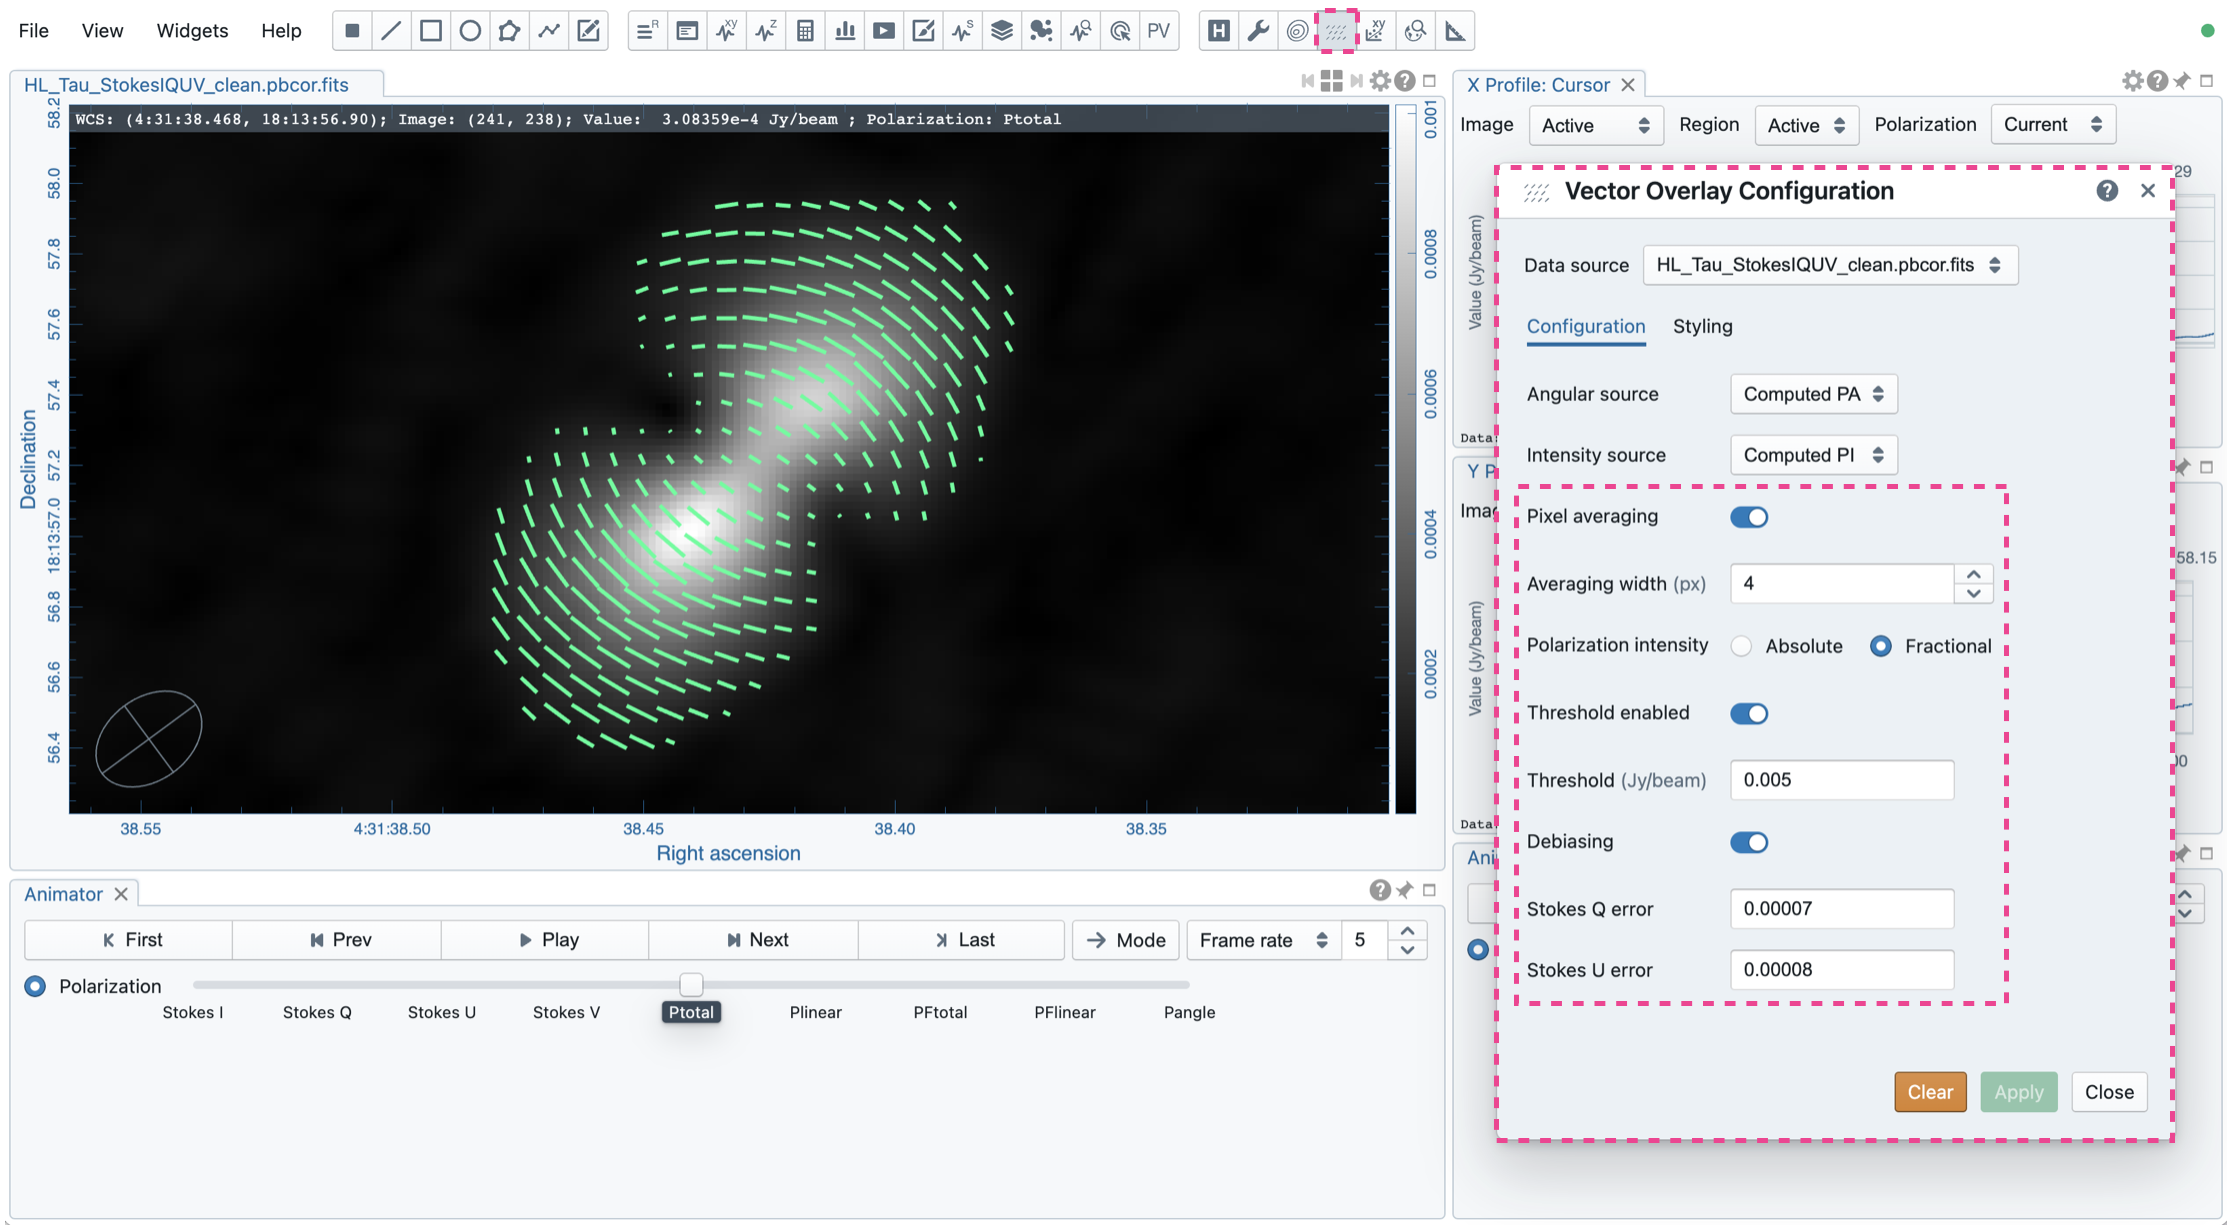
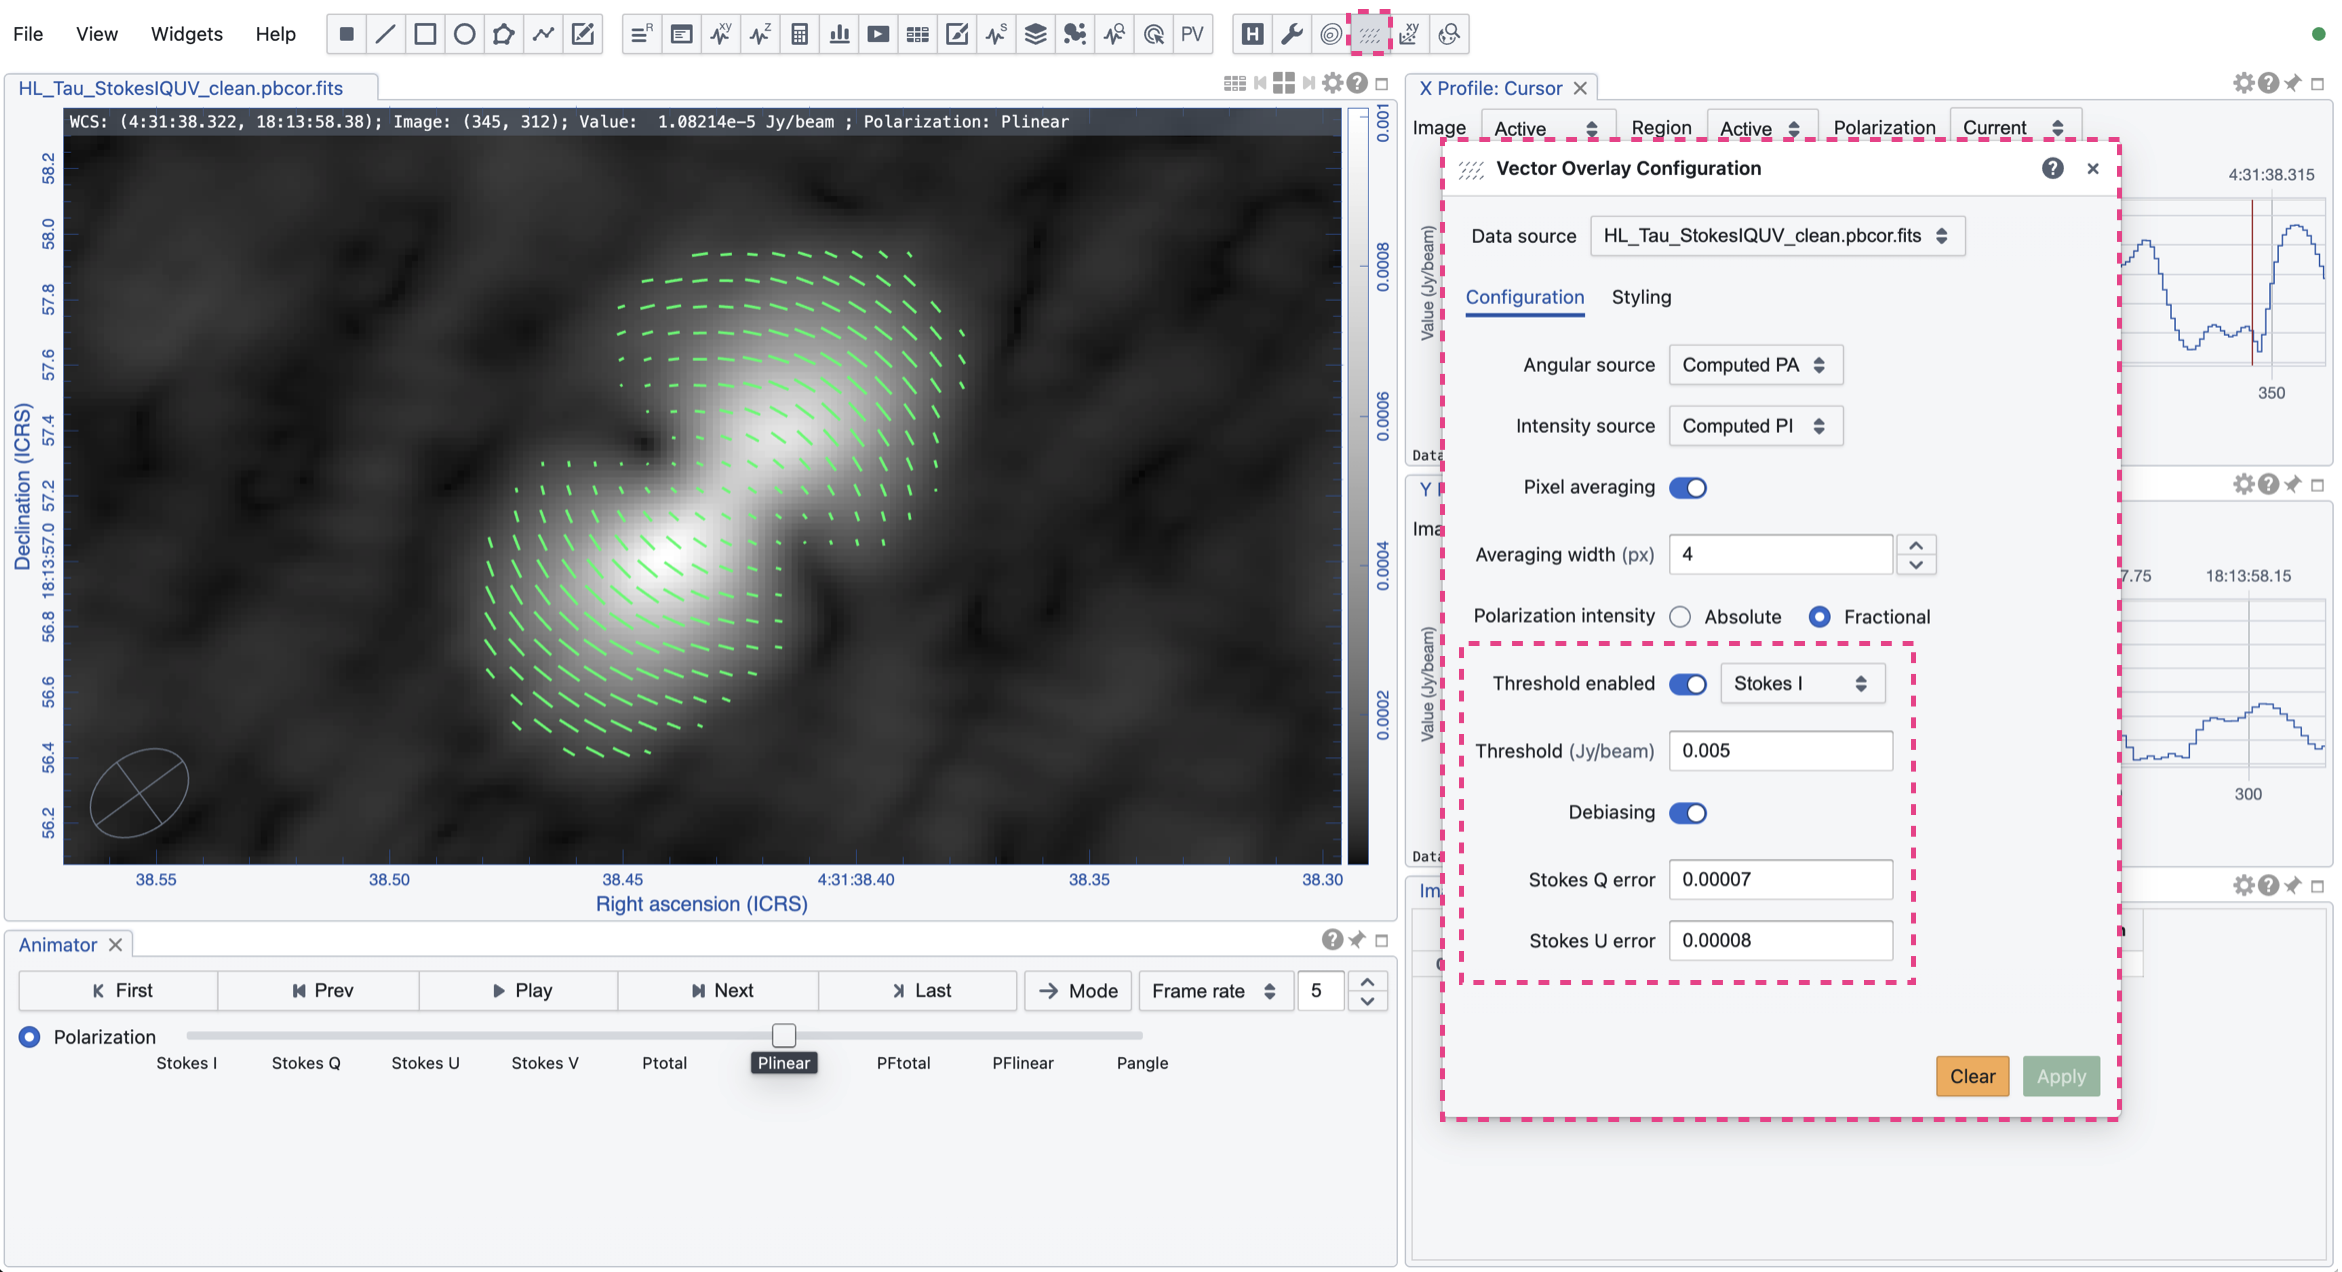
update vector field rendering

diff --git a/source/vector_field_rendering.rst b/source/vector_field_rendering.rst
@@ -3,12 +3,21 @@
 Vector field rendering
 ======================
 
-A vector overlay can be added to the Image Viewer from a vector field derived from an image, such as a linear polarization field or a magnetic field, or from a scalar field derived from an image, such as a temperature field or a column density field via the Vector Overlay Configuration Dialog.  
+You can add a vector overlay to the Image Viewer using the Vector Overlay Configuration Dialog. This allows you to visualize vector fields derived from images, such as linear polarization or magnetic fields, as well as scalar fields like temperature or column density.
 
 .. raw:: html
 
    <img src="_static/carta_fn_vectorOverlay.png" 
         style="width:100%;height:auto;">
+
+The Vector Overlay Configuration Dialog contains a Data source dropdown menu to select the image from which the vector elements are derived. The Configuration tab contains several options to configure how the vector elements are computed. The dialog also has a Styling tab to configure how the vector elements are rendered.
+
+.. note::
+   The vector overlay layer in the Image Viewer Widget may be hidden by clicking the "V" button in the Layers column of the Image List widget. When the vector overlay layer of a given image is hidden, the same vector overlay layer on all the other spatially matched images will also be hidden.
+
+
+Rendering modes
+---------------
 
 There are different ways to configure how a vector element is derived from the "**Data source**" via the "**Angular source**" and the "**Intensity source**" dropdown menus:
 
@@ -24,11 +33,28 @@ See the figure below for examples of the four vector overlay rendering modes.
    <img src="_static/carta_fn_vectorOverlay_examples.png" 
         style="width:100%;height:auto;">
 
-
+Smoothing
+---------
 
 Usually, block smoothing is applied to the "**Data source**" image to enhance the signal-to-noise ratio before computing vector elements. You can enable the "**Pixel averaging**" toggle (enabled by default) and set the "**Averaging width (px)**" (default 4 pixels by 4 pixels) to apply pixel averaging. 
 
-When the "**Intensity source**" is "Computed PI", you can select "Absolute" or "Fractional" polarization intensity with the "**Polarization intensity**" radio buttons. A threshold for Stokes I may be applied to mask out noisy parts of the image with the "**Threshold**" field when the "**Threshold enabled**" toggle is switched on. If Stokes I is unavailable (i.e., the input image has Stokes Q and U only), the threshold is applied to Stokes Q and U to construct a mask. Optionally, you may apply "debiasing" to the polarization intensity and angle calculations by enabling the "**Debiasing**" toggle and set errors for Stokes Q and U in the "**Stokes Q error**" and the "**Stokes U error**" fields, respectively.
+
+Absolute and fractional polarization intensity
+----------------------------------------------
+
+When the "**Intensity source**" is "Computed PI", you can select "Absolute" or "Fractional" polarization intensity with the "**Polarization intensity**" radio buttons. Fractional polarization intensity is computed as the ratio of the polarization intensity to the total intensity (Stokes I) and is expressed in percentage. Absolute linear polarization intensity is computed as the square root of the sum of squares of Stokes Q and U, which is expressed in the same unit as Stokes I. Absolute total polarization intensity is computed as the square root of the sum of squares of Stokes Q, U, and V.
+
+
+Thresholding and debiasing
+--------------------------
+
+A threshold for Stokes I may be applied to mask out noisy parts of the image with the "**Threshold**" field when the "**Threshold enabled**" toggle is switched on. When threshold is enabled, an option is provided to select which component as the target for thresholding. Possible use cases include:
+
+* If Stokes IQU or IQUV is available, you can set Stokes I or Computed PI as the target for thresholding. 
+* If Stokes QU or QUV is available, Computed PI is the target for thresholding.
+* If no Stokes is available, the current image is used as the target for thresholding.
+
+Optionally, you may apply "debiasing" to the polarization intensity and angle calculations by enabling the "**Debiasing**" toggle and set errors for Stokes Q and U in the "**Stokes Q error**" and the "**Stokes U error**" fields, respectively.
 
 .. raw:: html
 
@@ -36,15 +62,29 @@ When the "**Intensity source**" is "Computed PI", you can select "Absolute" or "
         style="width:100%;height:auto;">
 
 
-Once the control parameters of how a vector overlay is computed are set, you can click the "**Apply**" button to trigger the computation and rendering process. The vector overlay data will be streamed incrementally similarly to the raster rendering with image tiles. Click the "**Clear**" button to remove the vector overlay.
+Adding and removing vector overlays
+-----------------------------------
 
-On spatially matched images, vector elements are reprojected precisely based on the projection schemes. This behaves the same as the contour overlay and catalog image overlay. You can use the Image List Widget to trigger image matching. 
+Once the control parameters of how a vector overlay is computed are set with the Configuration tab, you can click the "**Apply**" button to trigger the computation and rendering process. The vector overlay data will be streamed incrementally similarly to the raster rendering with image tiles. Click the "**Clear**" button to remove the vector overlay.
+
+
+
+Matching vector overlay images to raster images
+-----------------------------------------------
+
+Suppose you want to plot a vector overlay image on top of another raster image (e.g., linear polarization field as vectors, linear polarized intensity image as raster). In that case, you need to enable WCS matching of the two raster images first (see :ref:`wcs_matching`). Then, you can generate a vector overlay image just like the example below. The vector overlay images will be visible on *all* the images that are matched to the spatial reference image in world coordinates, including the spatial reference image itself. On spatially matched images, vector elements are reprojected precisely based on the projection schemes. This behaves the same as the contour overlay and catalog image overlay.
 
 .. raw:: html
 
    <img src="_static/carta_fn_vectorOverlayMatching.png" 
         style="width:100%;height:auto;">
 
+If multiple images are loaded in the append mode, you may use the "**Data Source**" dropdown menu to select an image as the input data for vector overlay calculations.
+
+
+
+Styling vector overlays
+-----------------------
 
 With the "**Styling**" tab, you can configure how vector elements are rendered, including:
 
@@ -52,7 +92,6 @@ With the "**Styling**" tab, you can configure how vector elements are rendered, 
 * intensity to vector length mapping
 * additional rotation offset to vector angle
 * color modes of vector elements
-
 
 For example, you may use the options to plot a vector overlay like below. Vector elements are rendered in different colors to represent the relative strength of the linear polarization intensity. An angle offset of 90 degrees is applied to the vector elements to *infer* the magnetic field morphology. 
 
